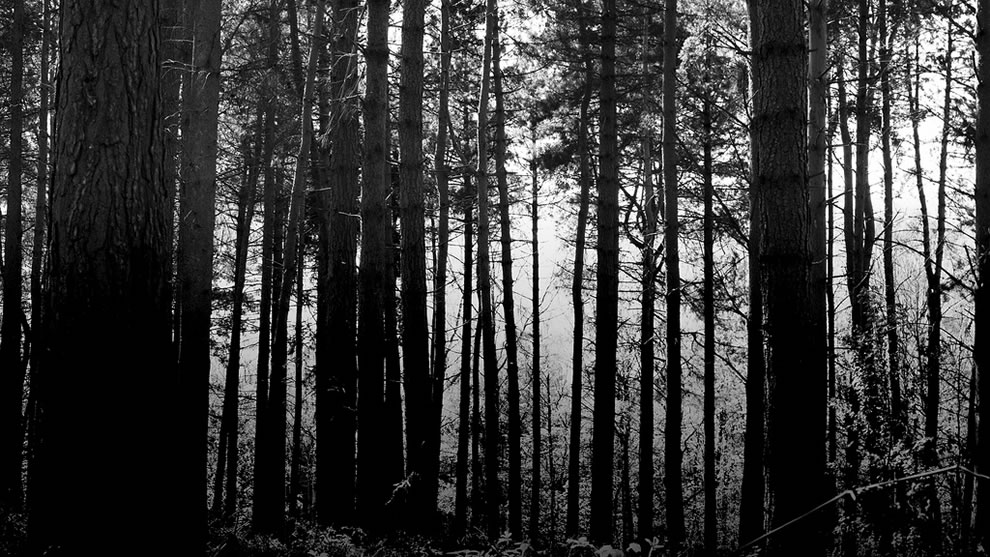
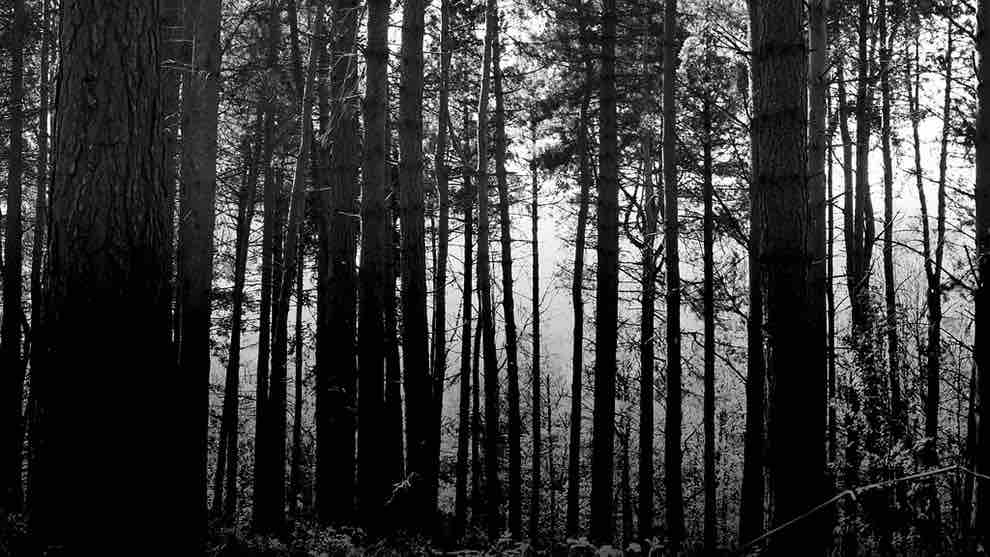
reduced size of assets, other changes to increase level of performance

diff --git a/Scripts/core/game.js b/Scripts/core/game.js
@@ -341,7 +341,7 @@ var game = (function () {
         playerGeometry = new BoxGeometry(2, 2, 2);
         playerMaterial = Physijs.createMaterial(new LambertMaterial({ color: 0x00ff00 }), 0.4, 0);
         player = new Physijs.BoxMesh(playerGeometry, playerMaterial, 1);
-        player.position.set(22, 30, -0.33);
+        player.position.set(22, 15, -0.33);
         player.receiveShadow = true;
         player.castShadow = true;
         player.name = "Player";
@@ -562,7 +562,7 @@ var game = (function () {
     }
     // Setup main camera for the scene
     function setupCamera() {
-        camera = new PerspectiveCamera(35, config.Screen.RATIO, 0.1, 300);
+        camera = new PerspectiveCamera(35, config.Screen.RATIO, 0.1, 250);
         // comment two rows below to see first perspective view ++++++++++++++++++++++++++++++++++++
         // I kept view from top to see general picture
         camera.position.set(70, 100, 80);

diff --git a/Scripts/core/game.ts b/Scripts/core/game.ts
@@ -409,7 +409,7 @@ var game = (() => {
         playerMaterial = Physijs.createMaterial(new LambertMaterial({ color: 0x00ff00 }), 0.4, 0);
 
         player = new Physijs.BoxMesh(playerGeometry, playerMaterial, 1);
-        player.position.set(22, 30, -0.33);
+        player.position.set(22, 15, -0.33);
         player.receiveShadow = true;
         player.castShadow = true;
         player.name = "Player";
@@ -685,7 +685,7 @@ var game = (() => {
 
     // Setup main camera for the scene
     function setupCamera(): void {
-        camera = new PerspectiveCamera(35, config.Screen.RATIO, 0.1, 300);
+        camera = new PerspectiveCamera(35, config.Screen.RATIO, 0.1, 250);
       // comment two rows below to see first perspective view ++++++++++++++++++++++++++++++++++++
       // I kept view from top to see general picture
        camera.position.set(70, 100, 80);
